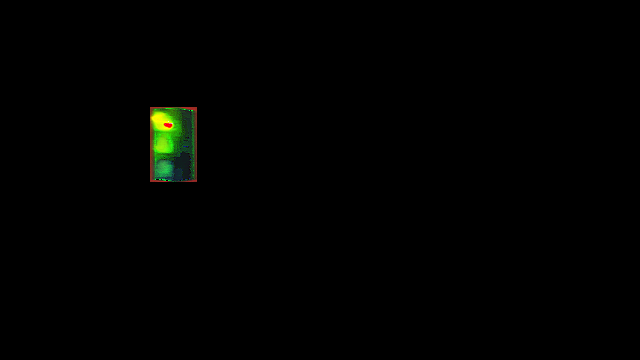
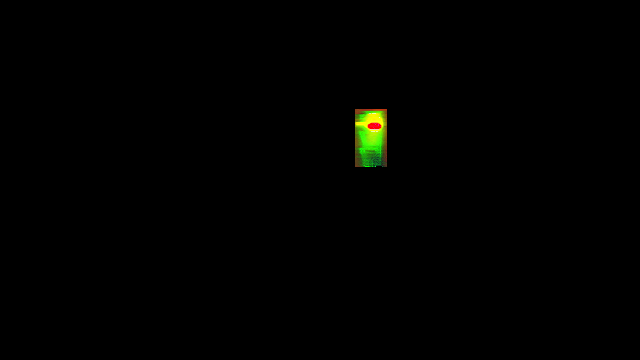
from traffic light

Changed region(s): [[0.2188, 0.275, 0.3125, 0.5194], [0.5312, 0.3056, 0.625, 0.4889]]

diff --git a/shrinkray_heist/shrinkray_heist/model/detection_node.py b/shrinkray_heist/shrinkray_heist/model/detection_node.py
@@ -28,7 +28,7 @@ class DetectionNode(Node):
 
         # listen for state machine state
         self.state_sub = self.create_subscription(Int32, "/toggle_state", self.state_cb, 1)
-        self.trafficlight_detector_on = False # should be False by default
+        self.trafficlight_detector_on = True # should be False by default
         self.shrinkray_detector_on = False # should be False by default
         self.obj_detected_pub = self.create_publisher(Int32, "/detected_obj", 10)
         self.trafficlight_dist_pub = self.create_publisher(Float32, "/traffic_light", 10)
